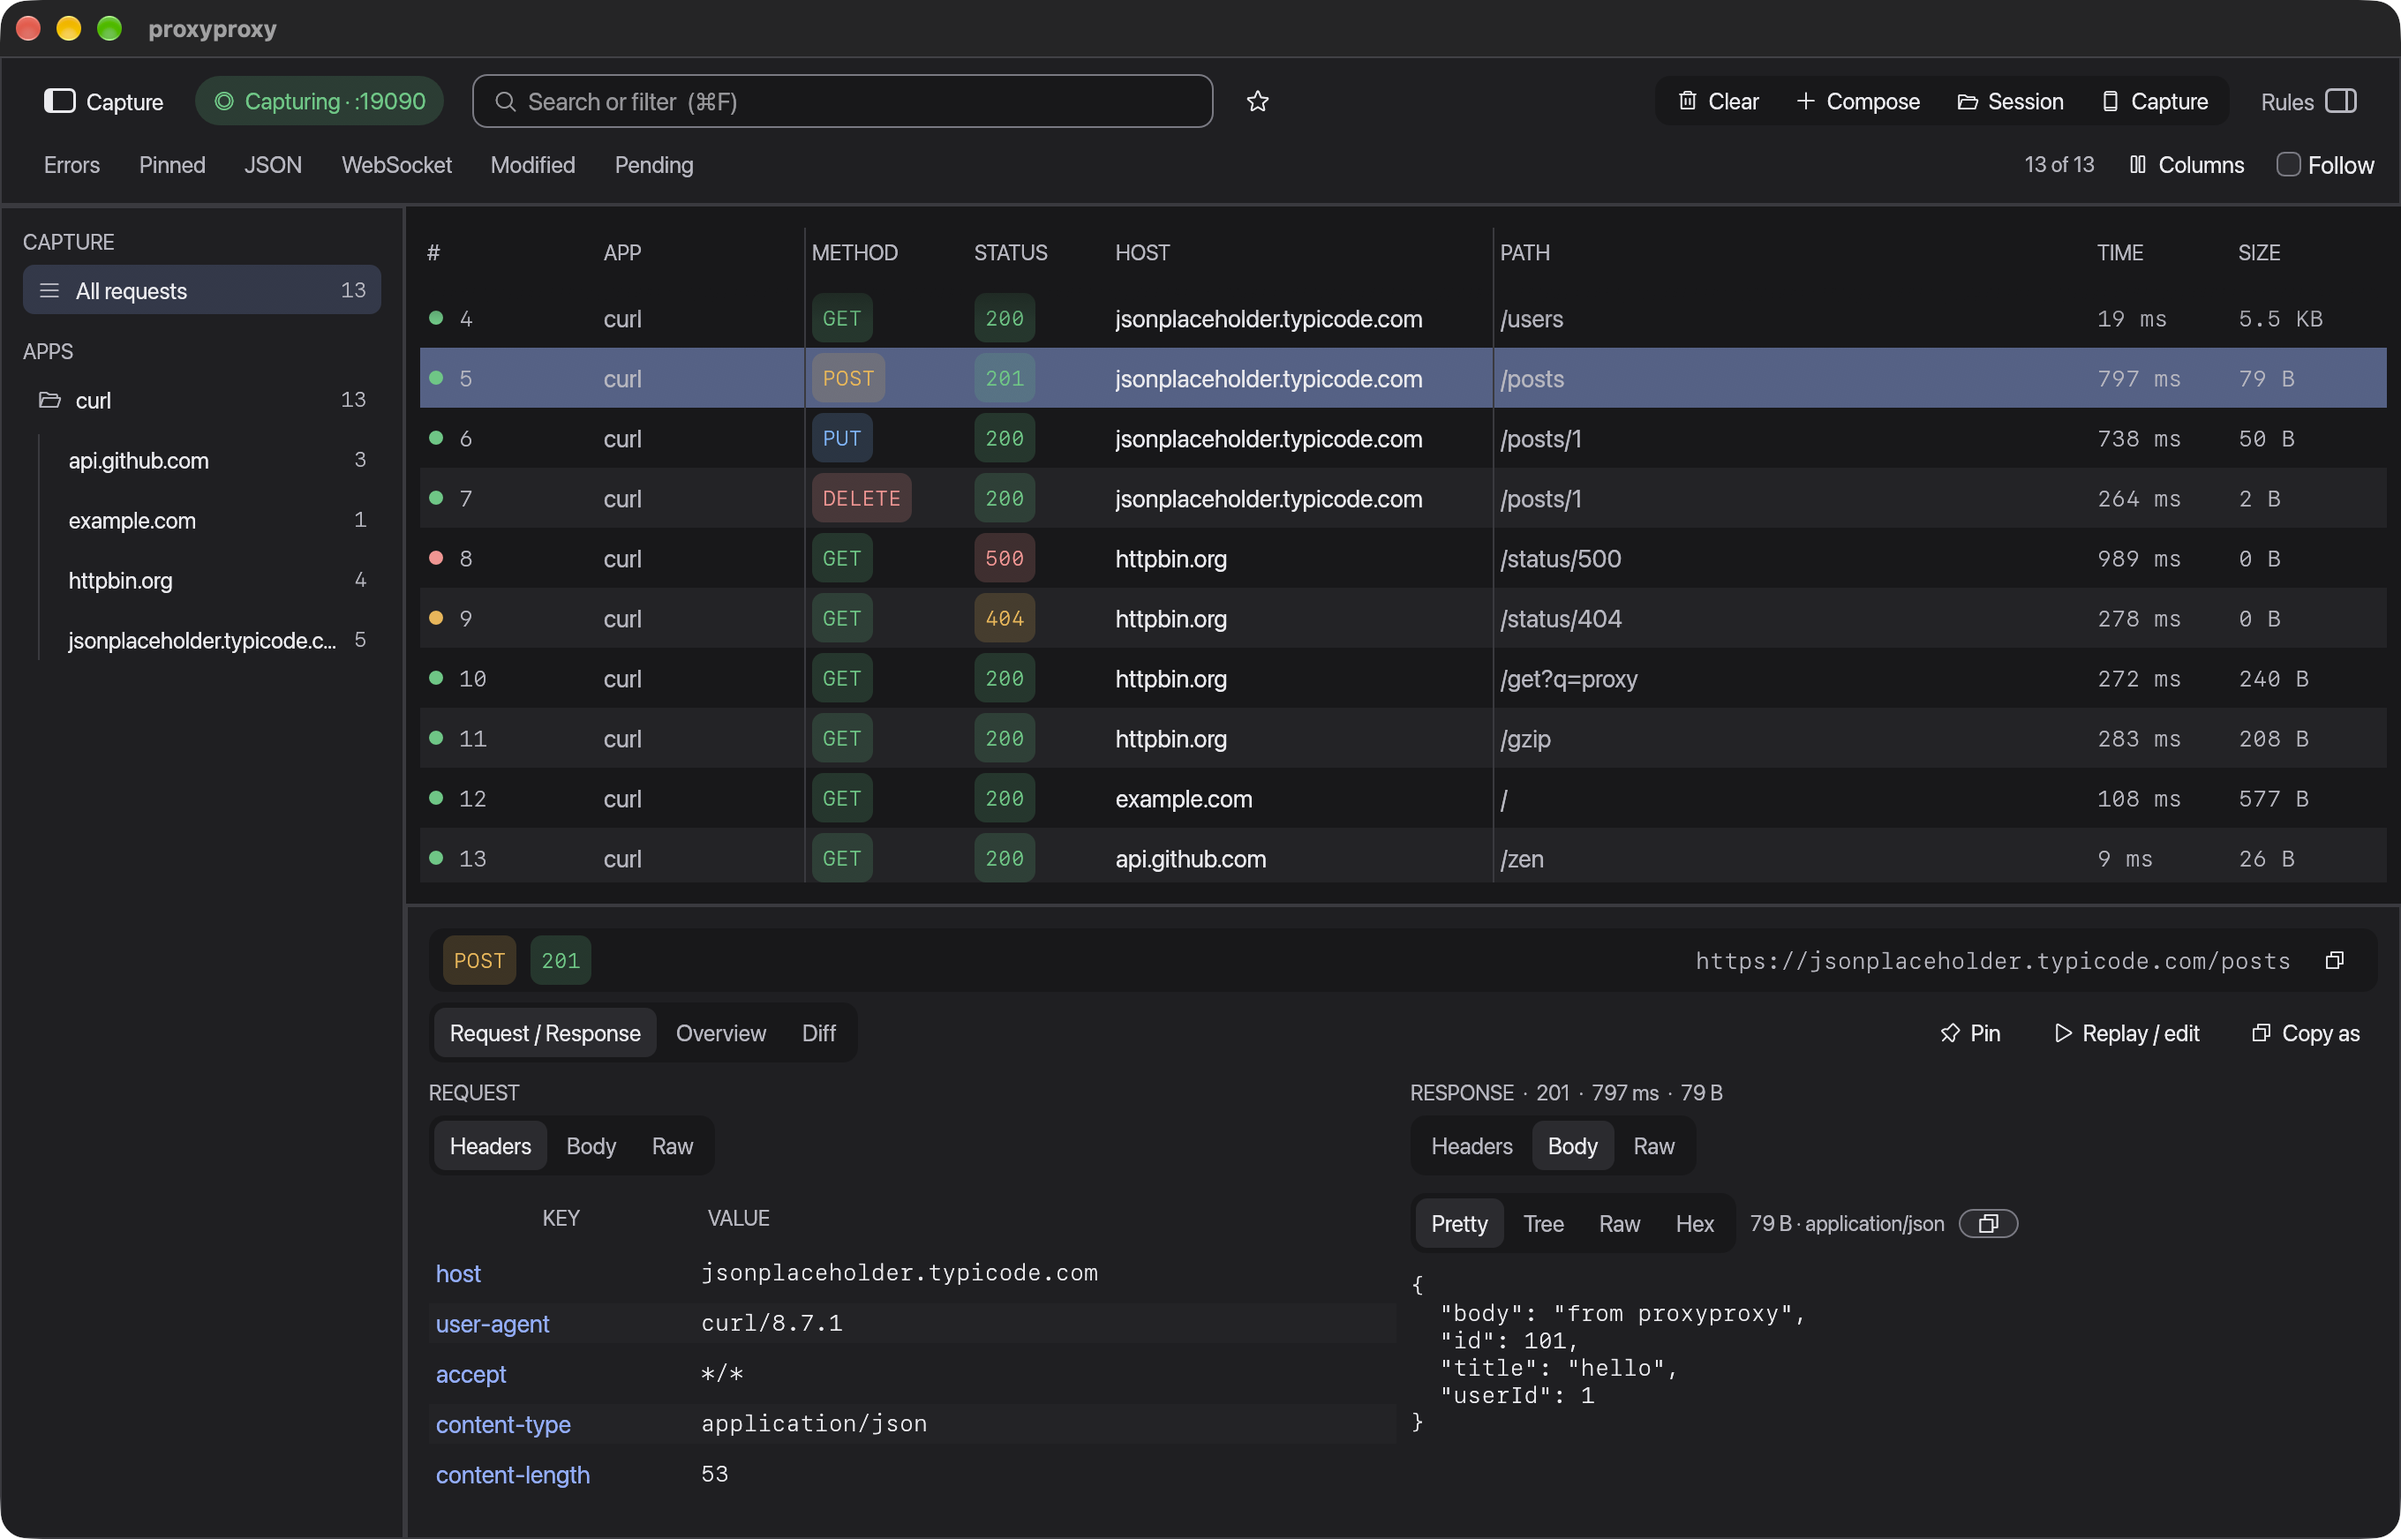
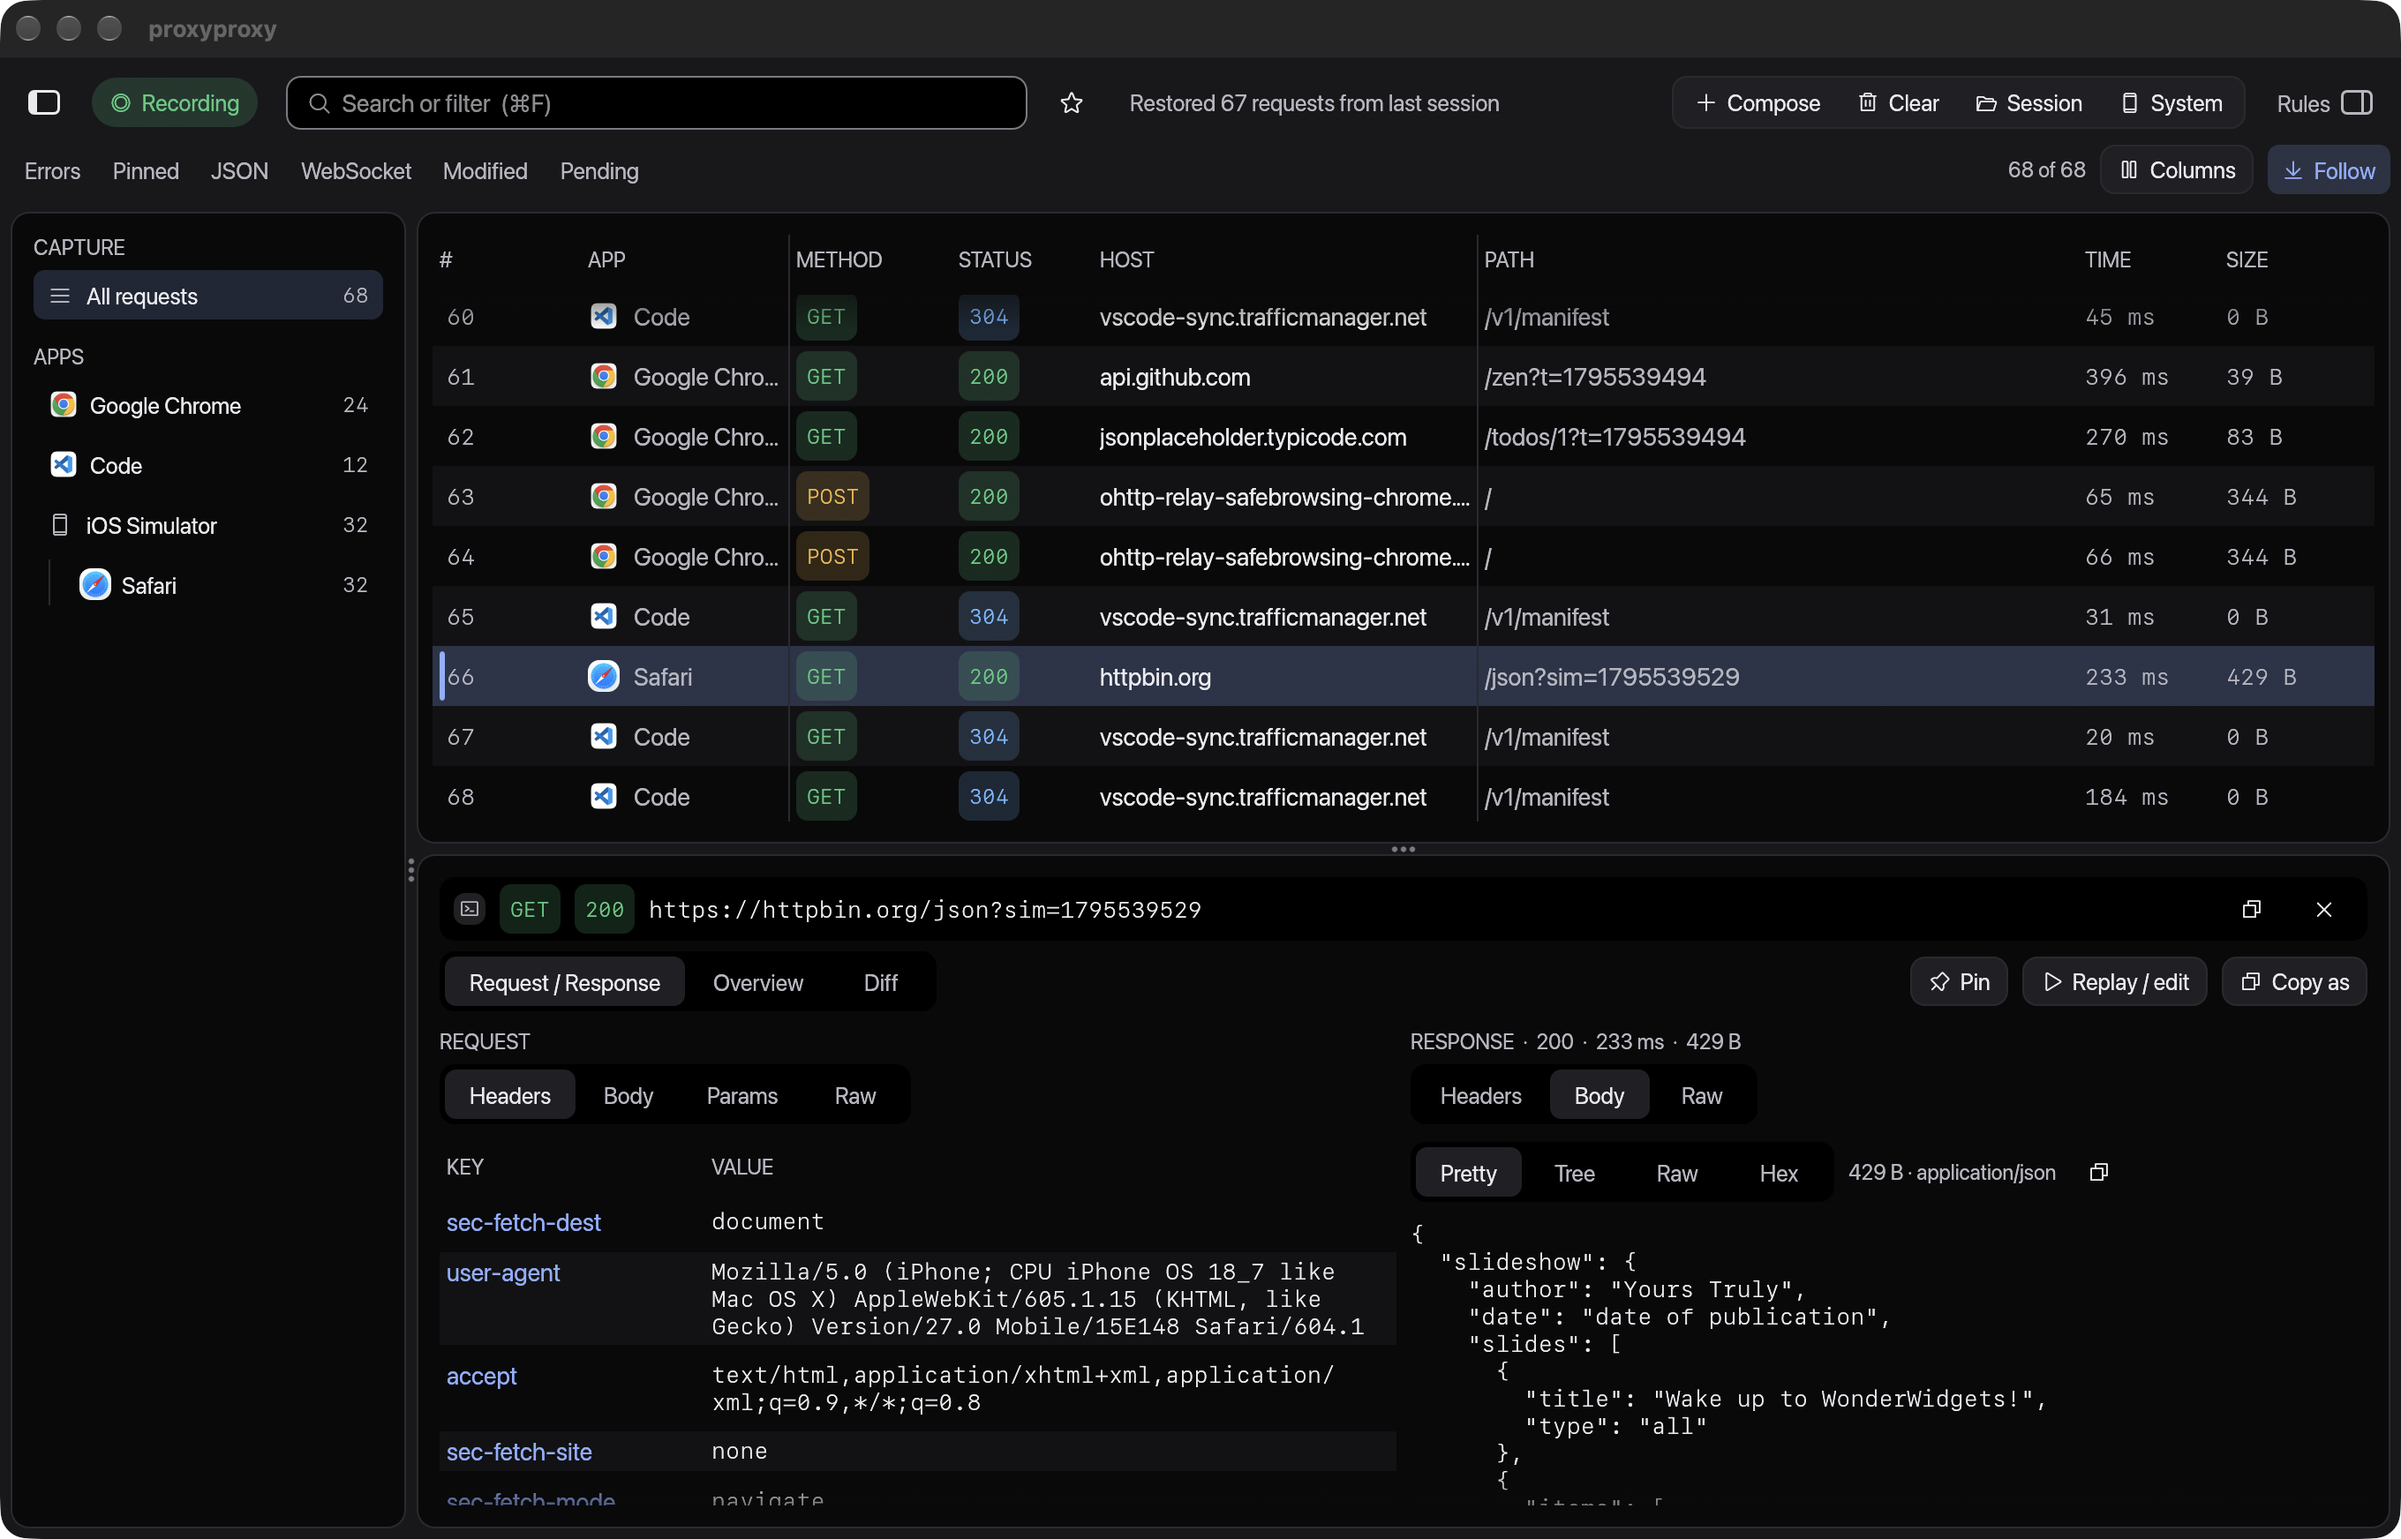
docs: update changelog and screenshots for v0.3.0

diff --git a/CHANGELOG.md b/CHANGELOG.md
@@ -1,6 +1,8 @@
 # Changelog
 
-## Unreleased
+## v0.3.0
+
+Changes since [v0.2.0](https://github.com/niclimcy/proxyproxy/releases/tag/v0.2.0).
 
 ### Added
 
@@ -11,6 +13,9 @@
 - Proxy-only hosts: a Scope tab list (plus Add hosts from Scope) and a Connect menu toggle route only those hosts through the system proxy using a generated PAC file; other traffic connects directly. The request context menu has Route only this host through proxy and Add to proxy-only list, and the toolbar shows an N hosts only pill. Works on macOS, Linux (GNOME) and Windows; edits rewrite the PAC while the proxy is on, and already-open connections keep their route.
 
 - App icons for iOS Simulator apps are read from the compiled `Assets.car` (pure Rust, no `actool`/`assetutil`), falling back to loose `AppIcon*.png`. Android emulator and USB device flows resolve a package id from `X-Requested-With` or the User-Agent, then get the app label and icon through `adb` (APK pulled once, cached, skipped silently when adb or the package is missing).
+- The detail panel closes with a button, Esc or by dragging it shut.
+- Cmd+Shift+P toggles recording.
+- HTTP/2 is enabled in the proxy.
 
 ### Changed
 
@@ -20,11 +25,13 @@
 - Network and Schemas move from the Rules panel to a Settings window (Cmd+,).
 - The dark theme is true black for OLED screens. Labelled buttons get a quiet filled surface with a soft hairline, and grouped toolbar actions sit in one capsule.
 - The toolbar's Clear keeps pinned requests; Clear all, including pinned, is in the Session menu.
-- The devices menu is now called Connect, and the sidebar toggle is an icon.
+- The devices menu is now a Sources menu: the recording pill only says Recording/Paused, the menu button names the active routes, and system proxy and host-only routing are checkbox rows. The sidebar toggle is an icon.
 - Rule types are picked from a dropdown, and Add rule is the form's primary button.
 
 ### Fixed
 
+- Panel seams get a single separator instead of doubled outlines, and the no-match card stays centered when the filter is long.
+- Menu items, action buttons and choice cards expose button roles and labels to assistive tech.
 - Web pages can no longer change rules or replay requests through the MCP endpoint: posts must be JSON, cross-site `Origin`s and non-loopback `Host`s are refused, and bodies are capped at 4 MB.
 - Quitting only turns off the system proxy when it points at proxyproxy, so a proxy you set up yourself is left alone.
 - iOS simulator and system proxy status are polled in the background instead of blocking the UI every second, and the onboarding screen now updates while open.
